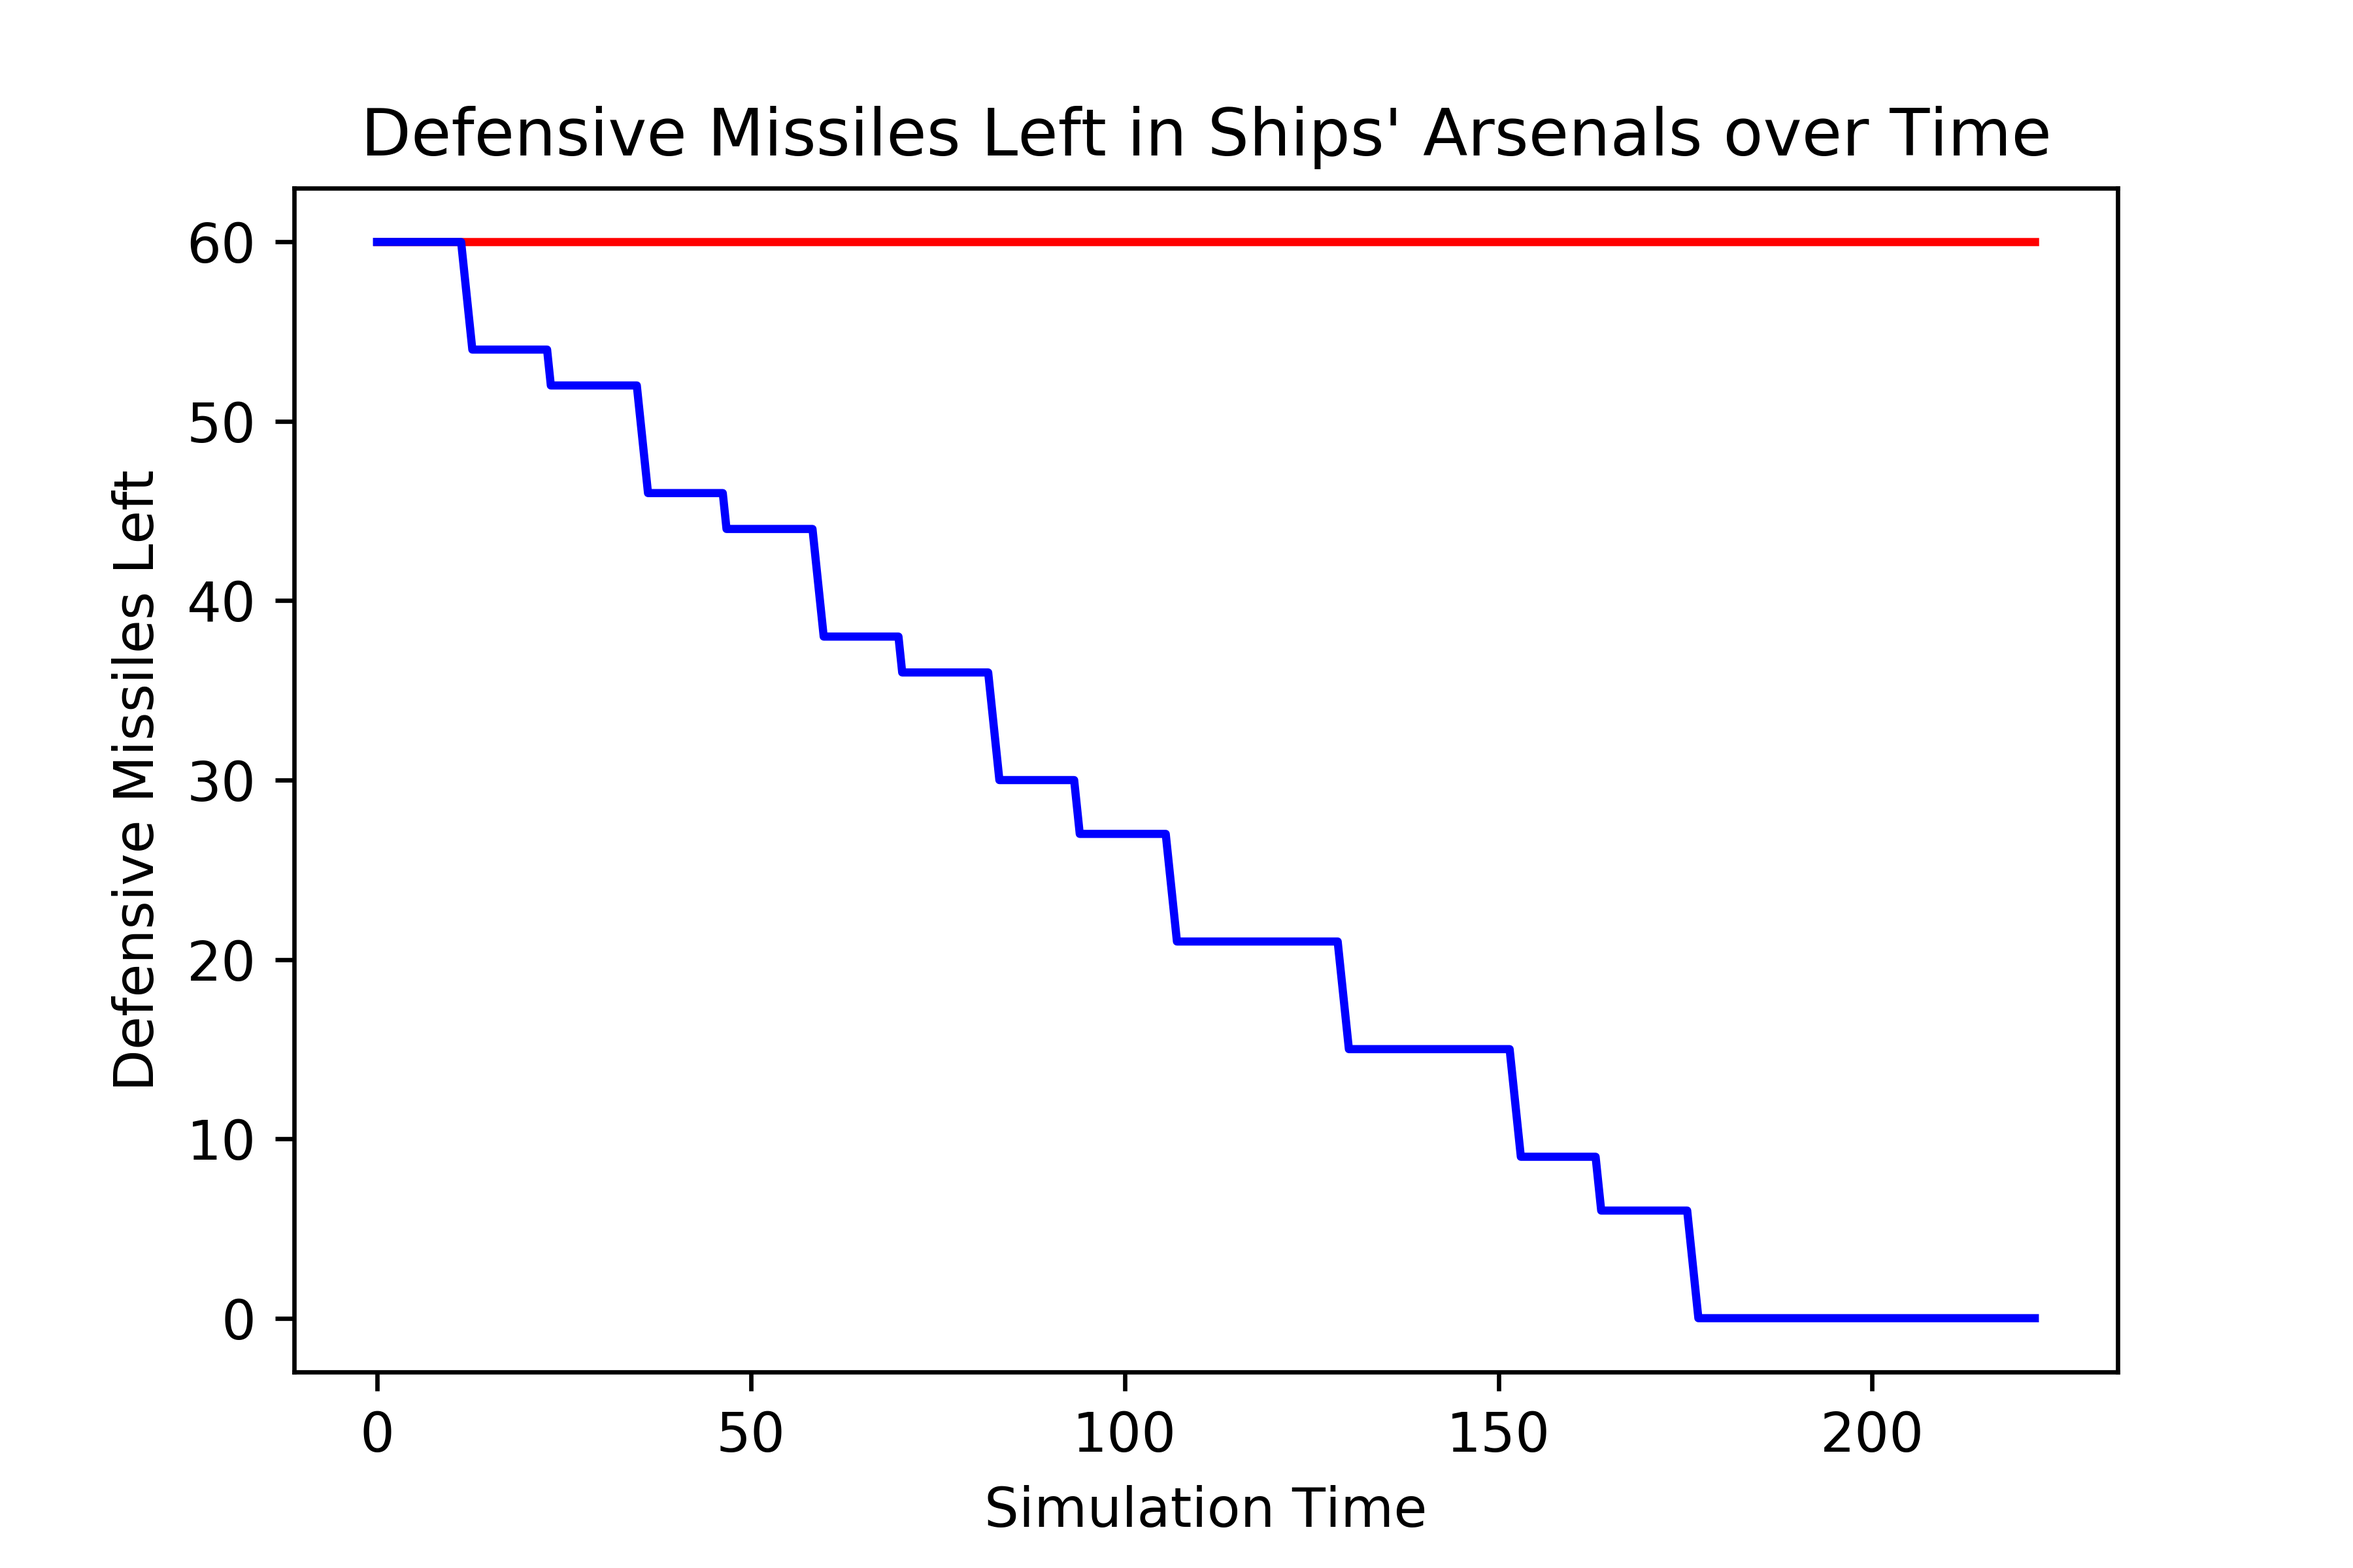
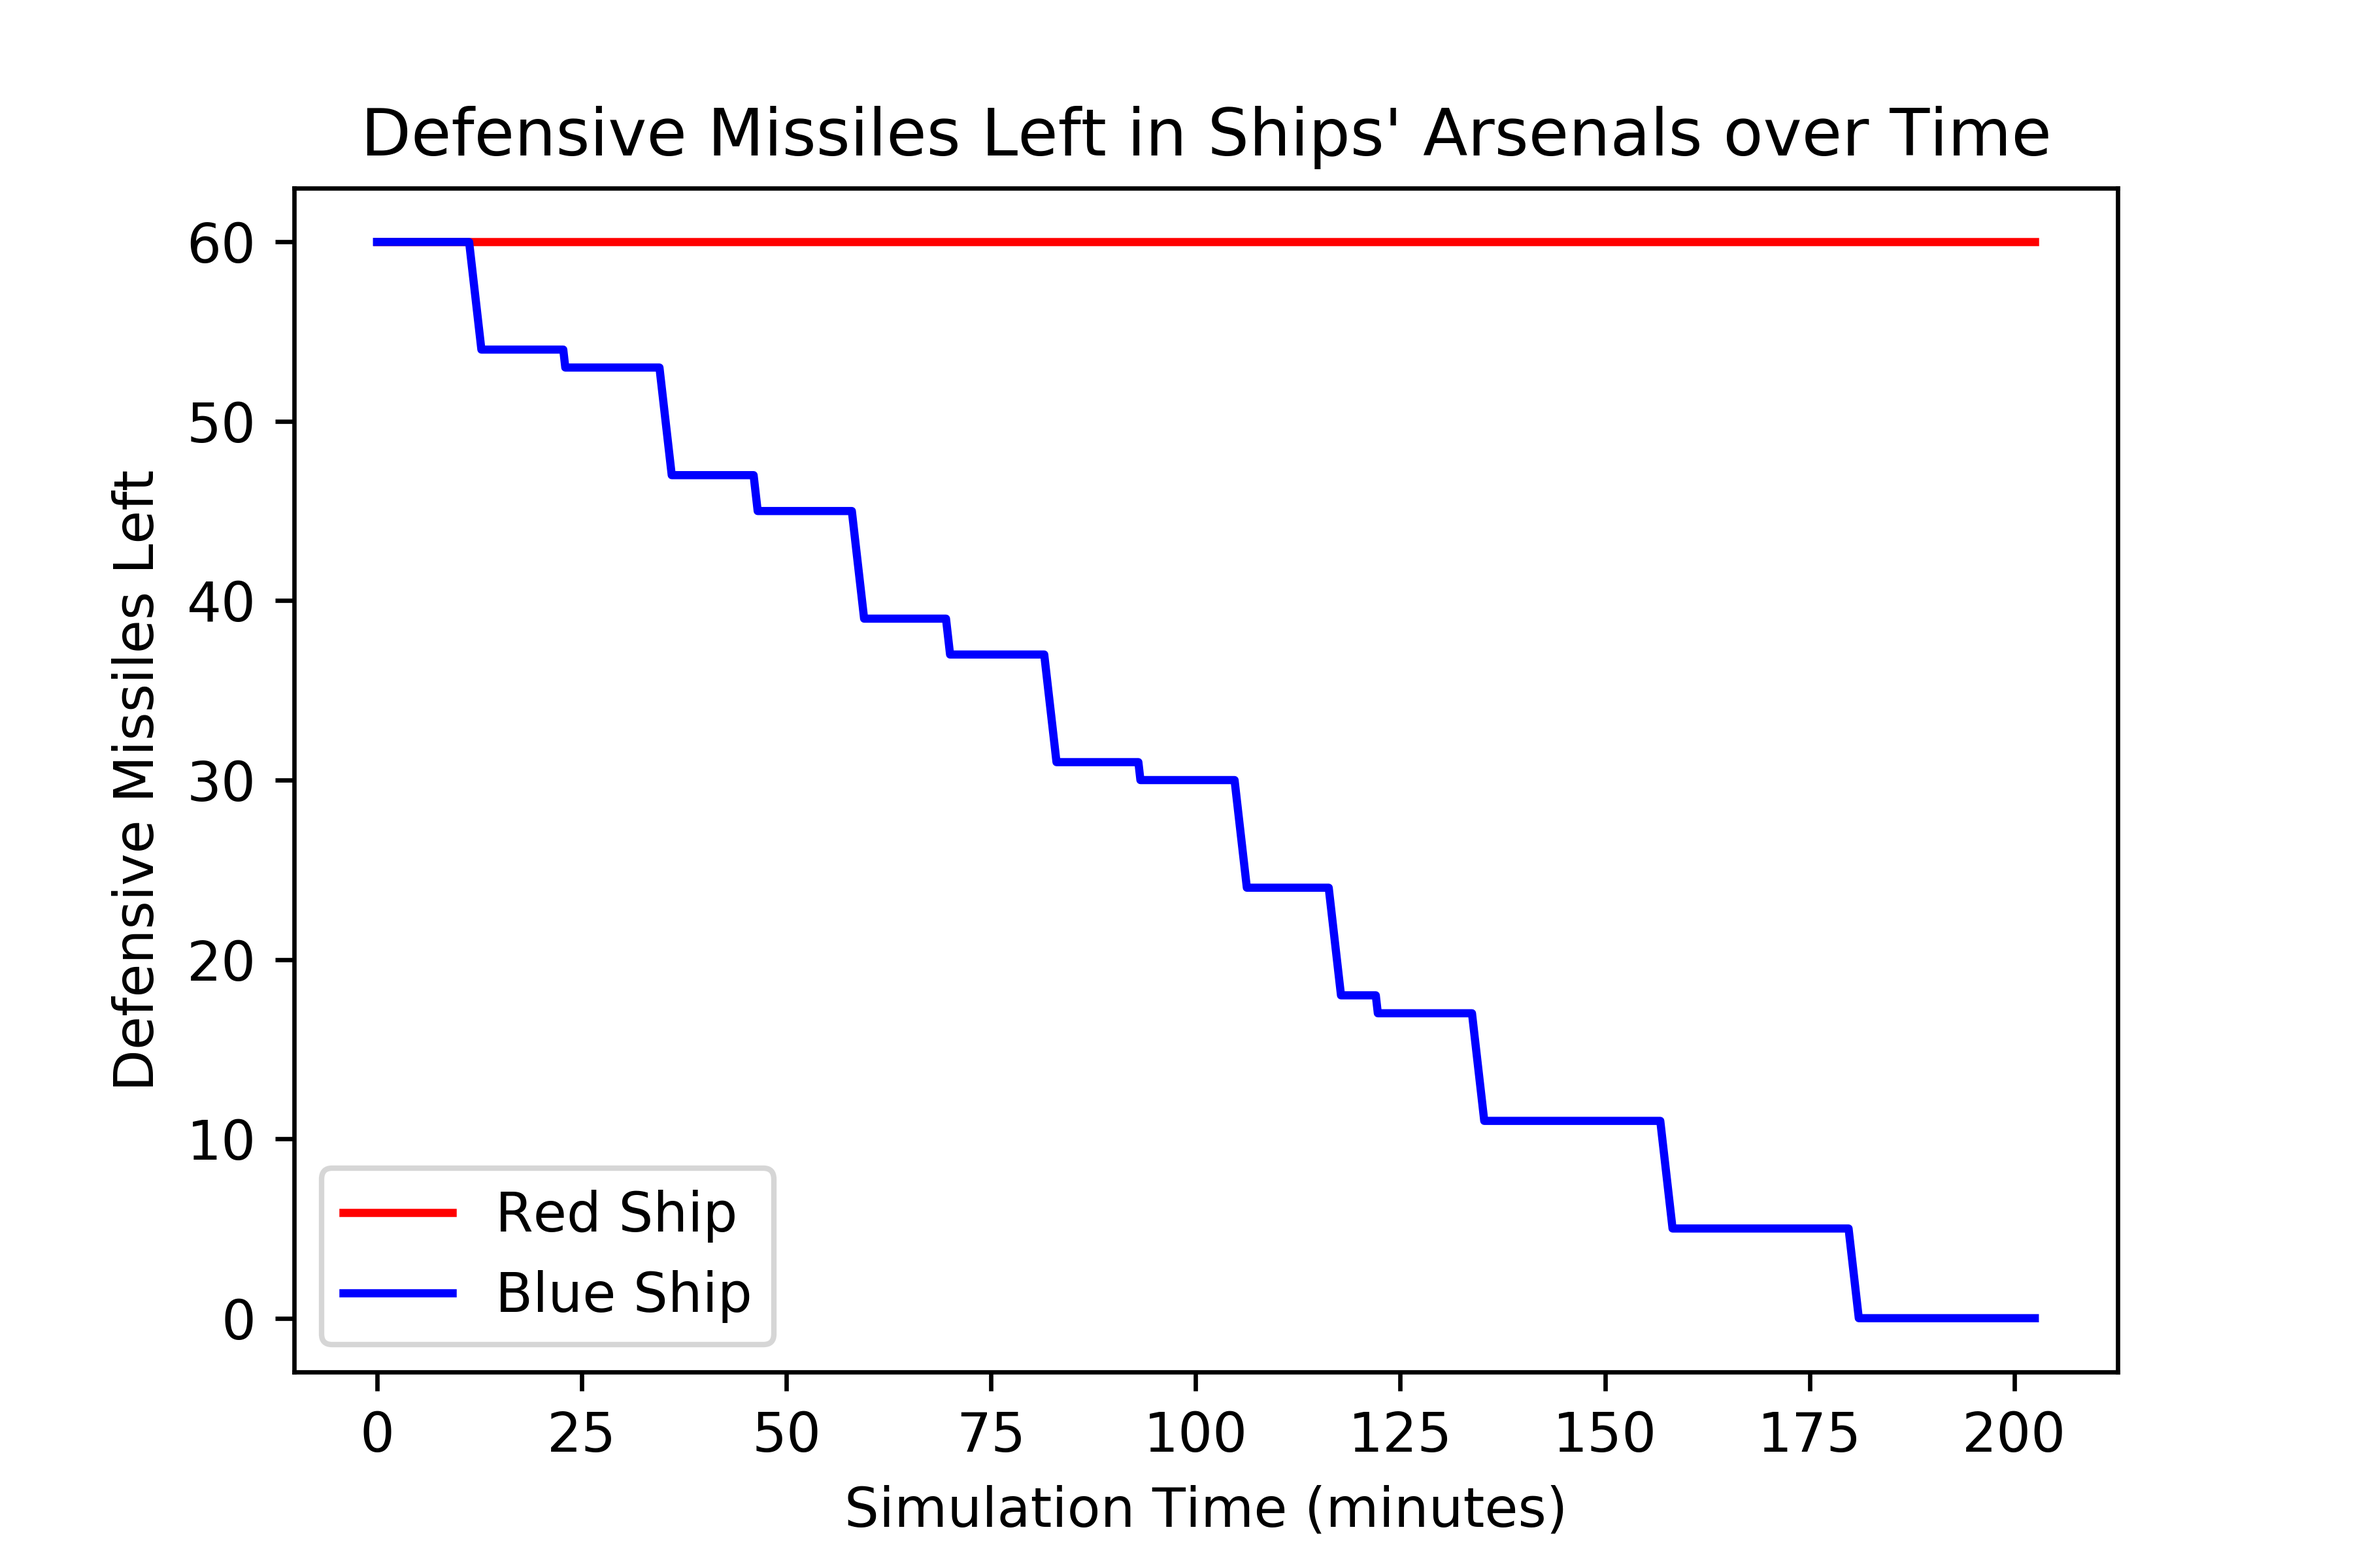
updated graphs

diff --git a/MissileDriverScript.py b/MissileDriverScript.py
@@ -110,14 +110,18 @@ if __name__ == "__main__":
         
     plt.plot(simulationTimeArray, RedNumberOffensiveMissiles, color='red', label='Red Ship')
     plt.plot(simulationTimeArray, BlueNumberOffensiveMissiles, color='blue', label='Blue Ship')
-    plt.xlabel('Simulation Time')
+    plt.legend()
+    #plt.ylim((0, max(redShip.offensiveMissileTotal, blueShip.offensiveMissileTotal)))
+    plt.xlabel('Simulation Time (minutes)')
     plt.ylabel('Offensive Missiles Left')
     plt.title('Offensive Missiles Left in Ships\' Arsenals over Time')
     plt.savefig('OffensiveMissilesOverTime.png', dpi=600)
     plt.show()
-    plt.plot(simulationTimeArray, RedNumberDefensiveMissiles, color='red')
-    plt.plot(simulationTimeArray, BlueNumberDefensiveMissiles, color='blue')
-    plt.xlabel('Simulation Time')
+    plt.plot(simulationTimeArray, RedNumberDefensiveMissiles, color='red', label='Red Ship')
+    plt.plot(simulationTimeArray, BlueNumberDefensiveMissiles, color='blue', label='Blue Ship')
+    plt.legend()
+    #plt.ylim((0, 5 + max(redShip.defensiveMissileTotal, blueShip.defensiveMissileTotal)))
+    plt.xlabel('Simulation Time (minutes)')
     plt.ylabel('Defensive Missiles Left')
     plt.title('Defensive Missiles Left in Ships\' Arsenals over Time')
     plt.savefig('DefensiveMissilesOverTime.png', dpi=600)
